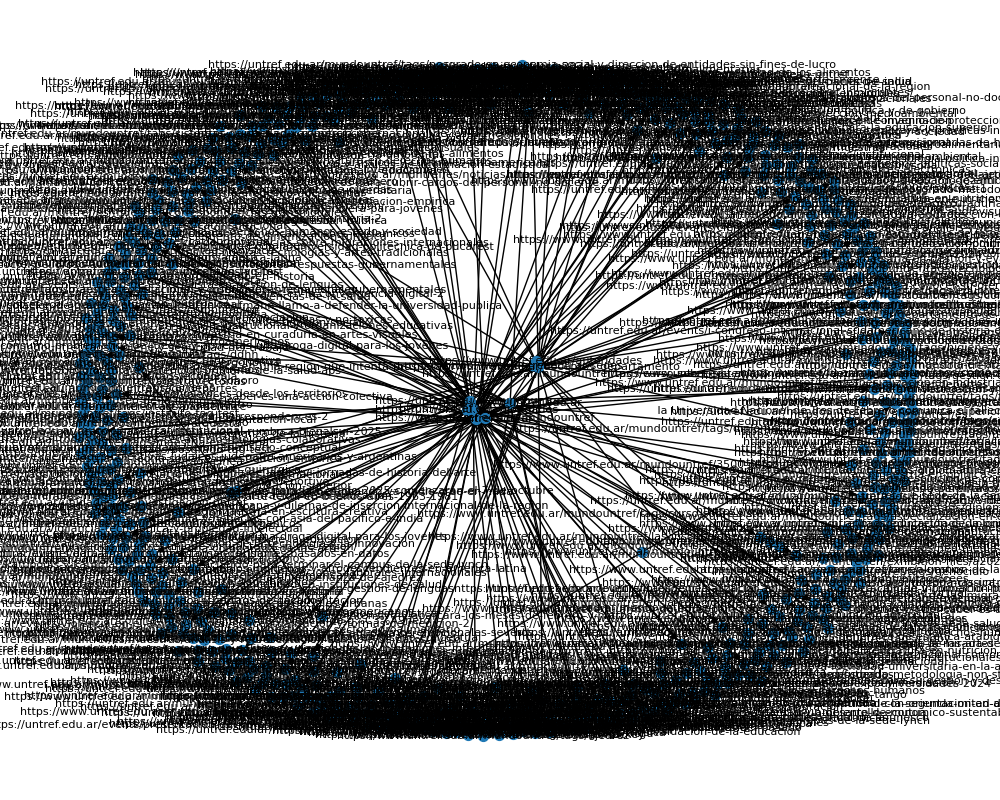
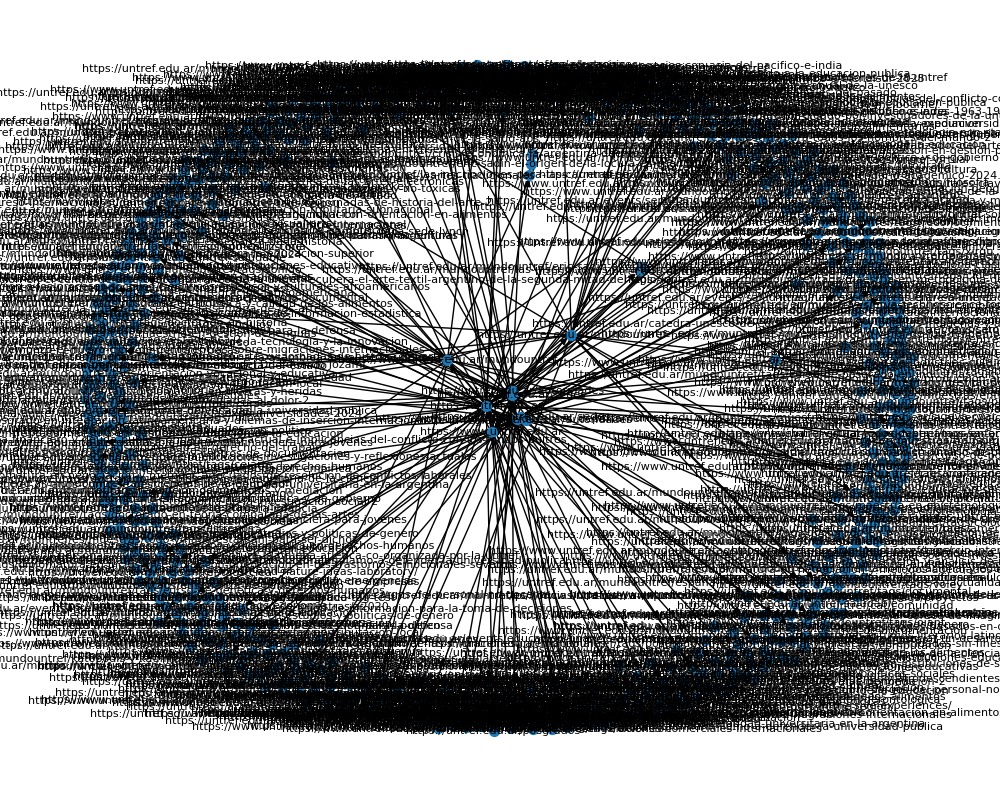
gráficos de pagerank y scc

diff --git a/main.py b/main.py
@@ -5,7 +5,9 @@ from crawler.crawler import Crawler
 from graph.graph import GrafoWeb
 from graph.visualization import visualizar_grafo
 from pagerank.pagerank import PageRank
+from pagerank.results import visualizar_pagerank
 from scc.scc import SCC
+from scc.visualization import visualizar_scc
 
 
 logging.basicConfig(filename='data/crawler.log', level=logging.DEBUG, format='%(asctime)s - %(levelname)s - %(message)s')
@@ -25,9 +27,12 @@ if __name__ == "__main__":
         pagerank.calcular()
         pagerank.guardar_resultados('data/pagerank_results.csv')
         logging.info("Resultados de PageRank guardados con éxito.")
+        visualizar_pagerank(pagerank.results)
         scc = SCC(grafo_web)
+        scc_list = scc.calcular_scc()
         scc.guardar_resultados('data/scc_results.csv')
         logging.info("Resultados de SCC guardados con éxito.")
+        visualizar_scc(grafo_web, scc_list)
     except KeyboardInterrupt:
         logging.warning("Se terminó la ejecución del programa antes de finalizar.")
     except Exception as e:

diff --git a/scc/scc.py b/scc/scc.py
@@ -17,4 +17,4 @@ class SCC:
             writer.writerow(['SCC ID', 'URLs'])
             for i, scc in enumerate(scc_list):
                 # Cada componente fuertemente conexa (SCC) se representa como una lista de URLs
-                writer.writerow([i, list(scc)])  # i es el ID del SCC, list(scc) son las URLs
+                writer.writerow([i, ", ".join(scc)])  # i es el ID del SCC, list(scc) son las URLs
